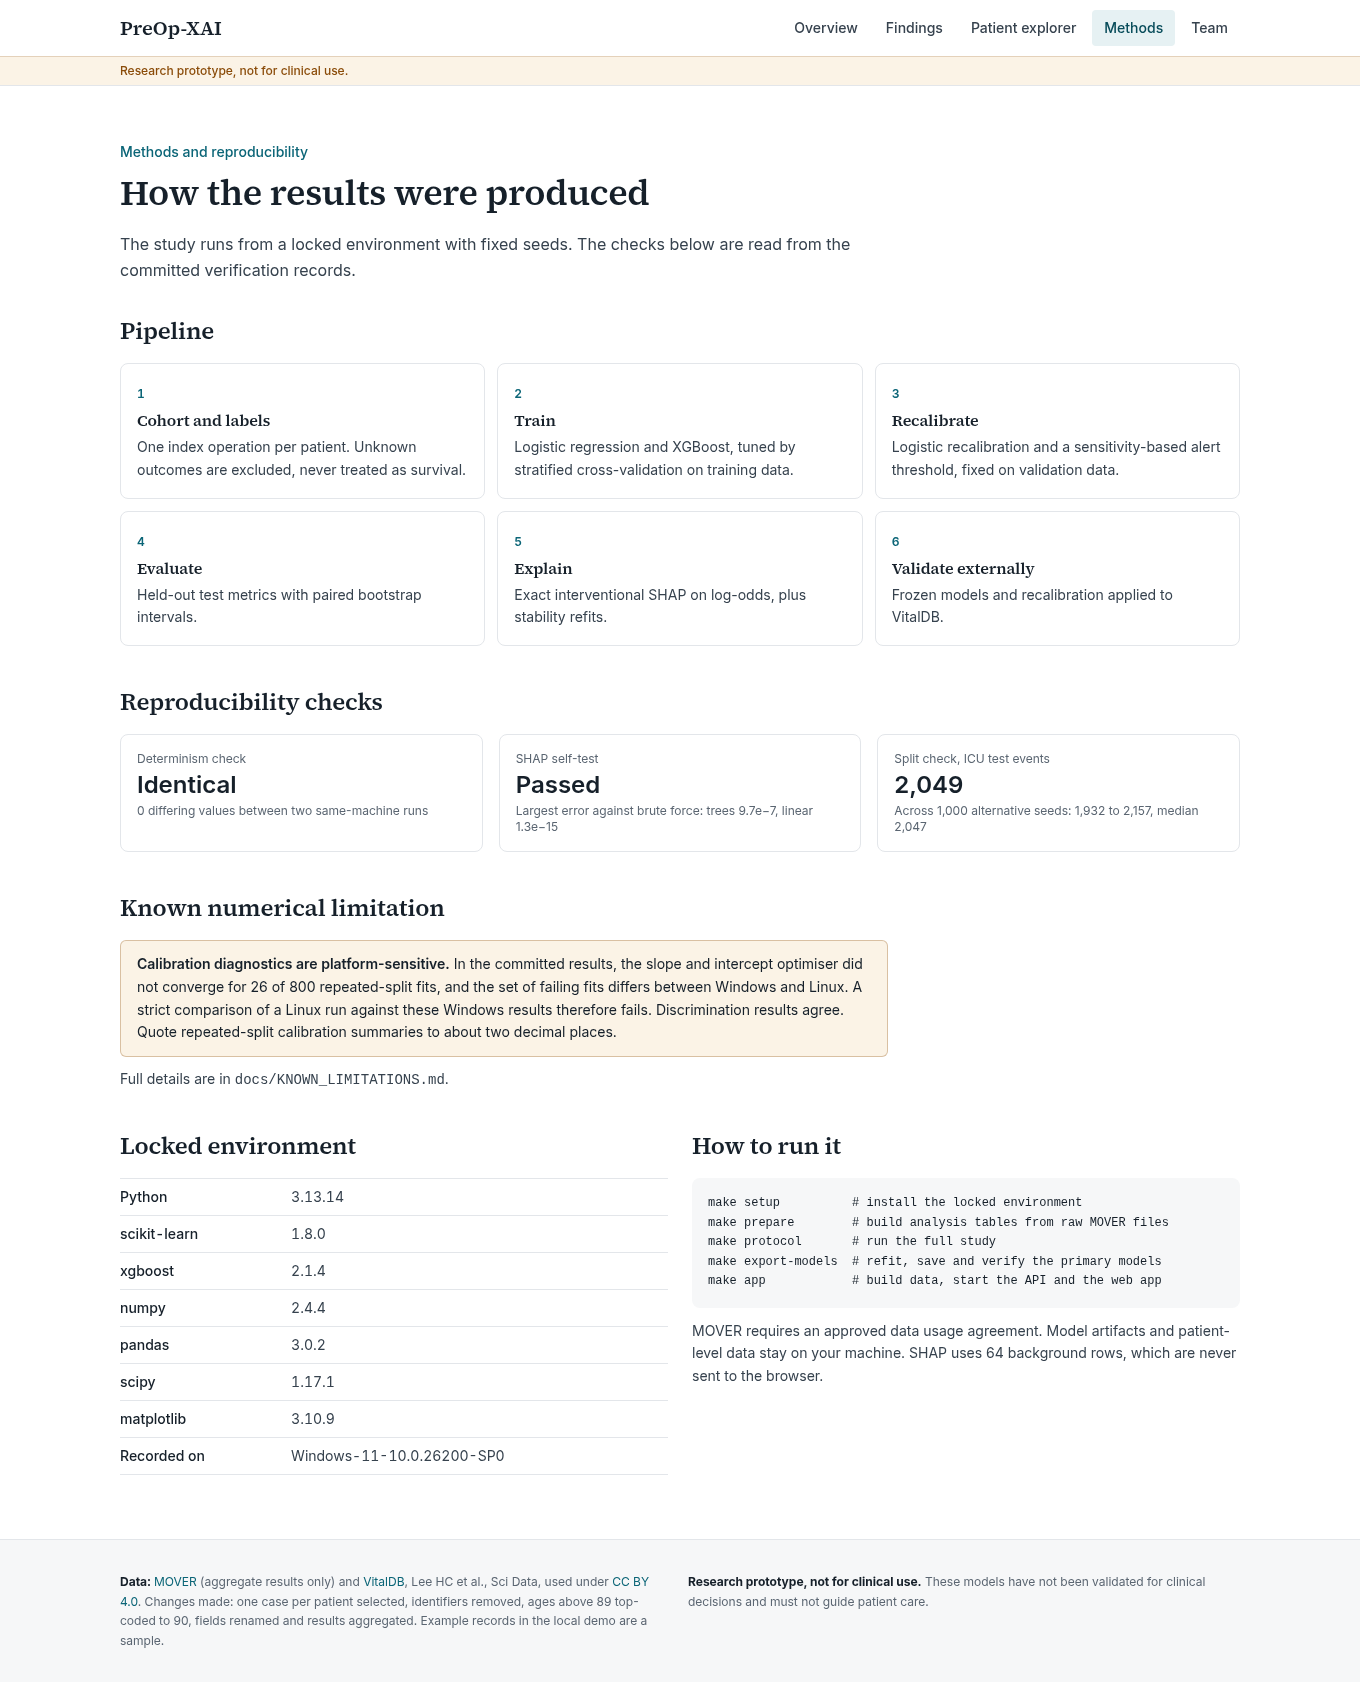
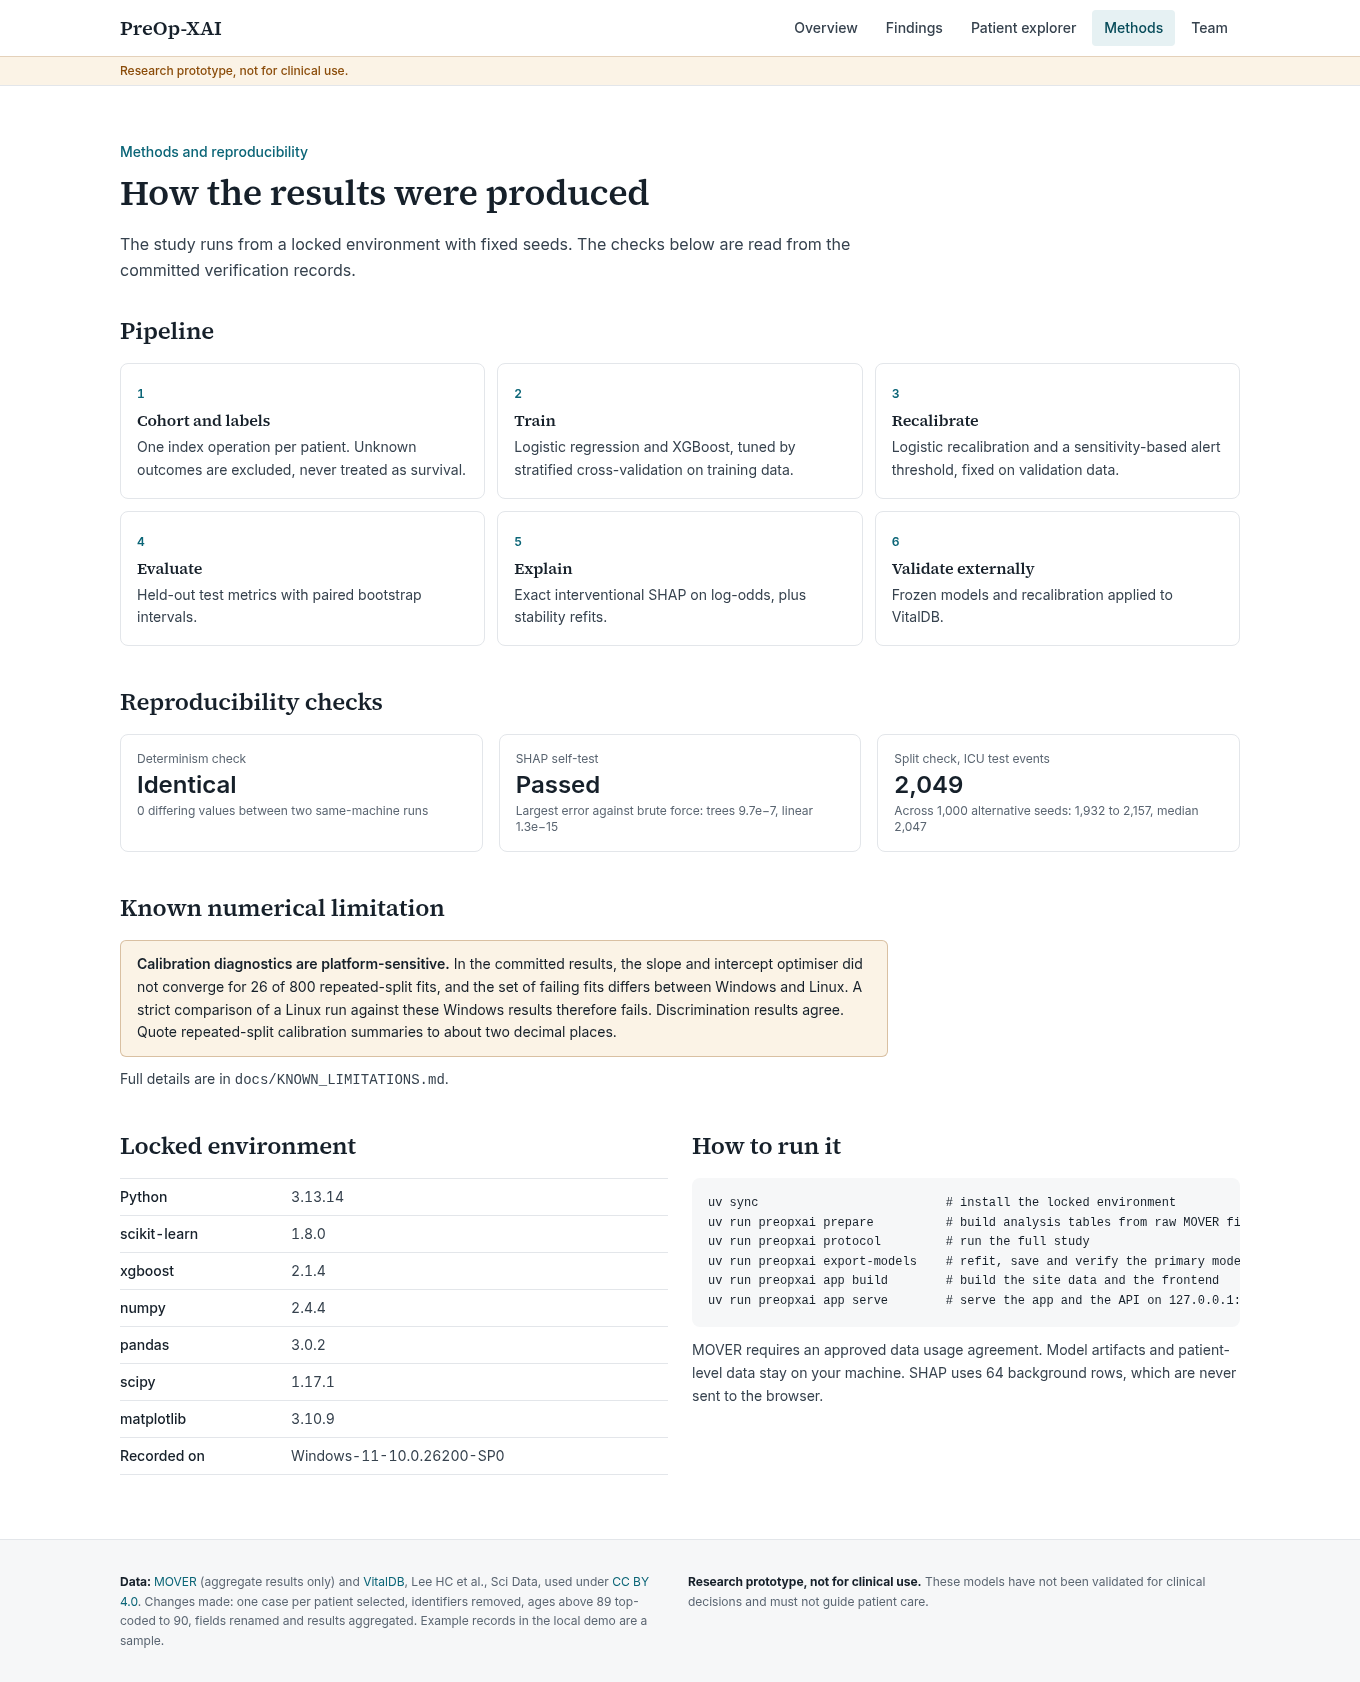
docs(dashboard): refresh screenshots and record the CLI verification

Changed region(s): [[0.4941, 0.7111, 0.8956, 0.8347]]

diff --git a/docs/REFACTOR_VERIFICATION.md b/docs/REFACTOR_VERIFICATION.md
@@ -65,3 +65,17 @@ The brute-force self-test passes: the largest tree error is below `1e-6`, and th
 | `verify` against committed Windows results | **exit 1: 115 of 226 artifacts differ** |
 
 The `verify` failure existed before the refactor and is explained in [KNOWN_LIMITATIONS.md](KNOWN_LIMITATIONS.md).
+
+## Typer CLI migration
+
+After the move to the `preopxai` command, `prepare` and `protocol environment main` were run
+again from an empty output folder and compared with the same baseline at `rtol=1e-8`,
+`atol=1e-10`.
+
+| Check | Result |
+| --- | --- |
+| `prepare`, `protocol environment main` | exit 0, 54 s and 104 s |
+| Analysis tables | DataFrame and SHA-256 equal |
+| Cohort flow, feature statistics, respiratory feasibility | identical |
+| Main-stage outputs (64 files) | equal; only `runtime_s` in `study.json` differs |
+| `export-models` | PASS; saved models byte-identical to the previous export |
